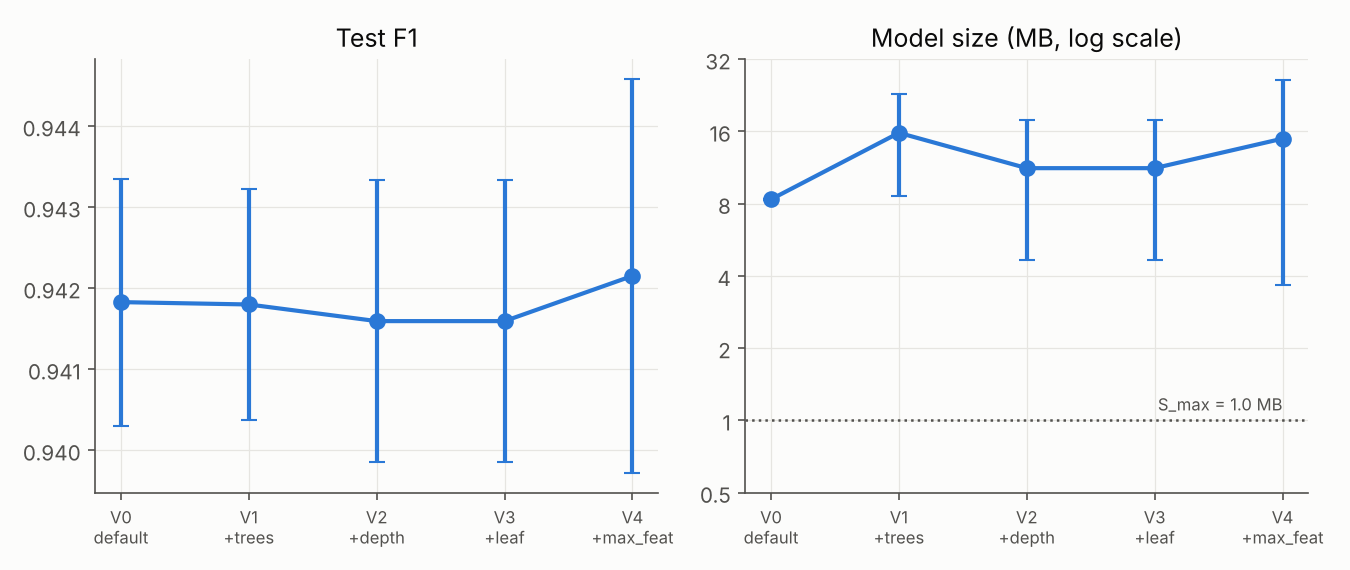
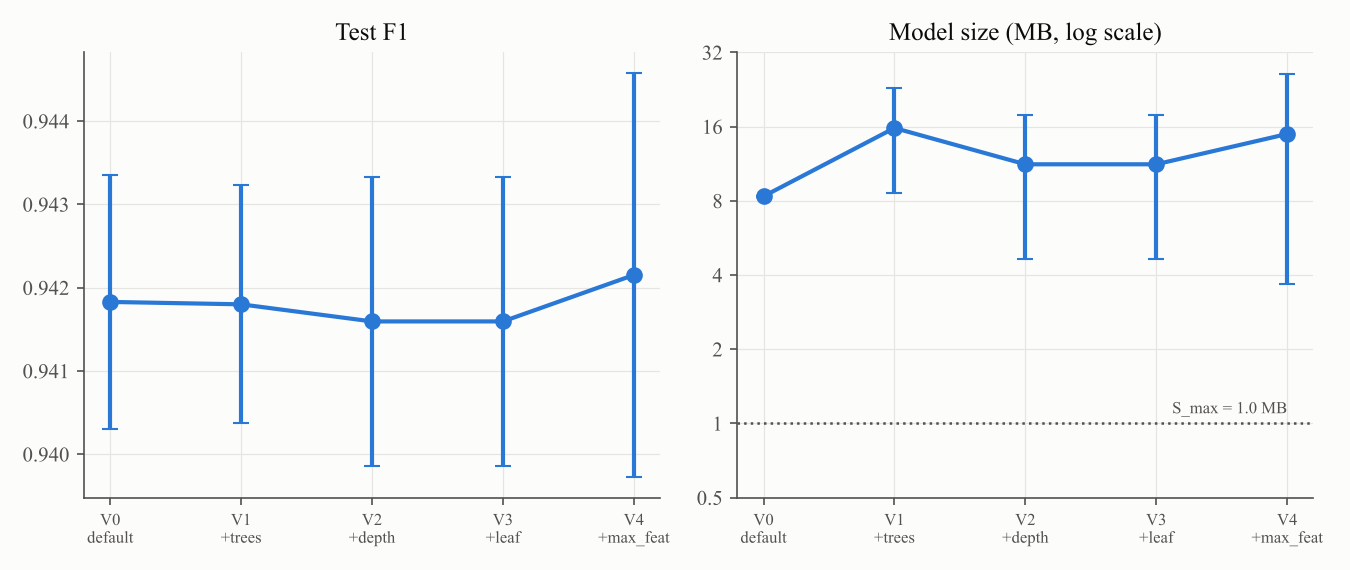
docs: cập nhật README, đề cương và hình cho quyết định tối ưu từng siêu tham số

diff --git a/src/overfitting_check.py b/src/overfitting_check.py
@@ -98,7 +98,10 @@ def learning_curves(Xtr, ytr, final):
     df = pd.DataFrame(rows)
     df.to_csv(RESULTS / "overfitting_learning_curve.csv", index=False)
     print(df.round(4).to_string(index=False))
+    plot_learning_curve(df)
 
+
+def plot_learning_curve(df):
     plt = plots.plt
     fig, axes = plt.subplots(1, 2, figsize=(8.5, 3.6), sharey=True)
     for ax, (name, color) in zip(axes, (("Default", plots.COLORS["Default"]), ("Chosen (OFAT V10)", plots.COLORS["TPE"]))):
@@ -136,6 +139,10 @@ def leakage(Xtr, Xte, ytr, yte):
 
 
 if __name__ == "__main__":
+    import sys
+    if sys.argv[1:2] == ["--replot"]:  # redraw the learning curve from the saved CSV only
+        plot_learning_curve(pd.read_csv(RESULTS / "overfitting_learning_curve.csv"))
+        sys.exit()
     optuna.logging.set_verbosity(optuna.logging.WARNING)
     warnings.filterwarnings("ignore", message=".*sklearn.utils.parallel.delayed.*")
     X, y, _ = load_data()

diff --git a/src/plots.py b/src/plots.py
@@ -20,6 +20,7 @@ plt.rcParams.update({
     "axes.labelcolor": INK, "xtick.color": MUTED, "ytick.color": MUTED, "text.color": INK,
     "axes.spines.top": False, "axes.spines.right": False, "axes.grid": True,
     "grid.color": "#e6e5e1", "grid.linewidth": 0.6, "font.size": 10, "lines.linewidth": 2,
+    "font.family": "serif", "font.serif": ["Times New Roman", "Liberation Serif", "DejaVu Serif"],  # match the report
 })
 
 

diff --git a/README.md b/README.md
@@ -1,95 +1,122 @@
-# Detection of a Fake Website — Constrained HPO for Random Forest
+# Detection of a Fake Website — Hyperparameter Optimisation for Random Forest
 
-Tối ưu siêu tham số Random Forest **có ràng buộc dung lượng mô hình** cho bài toán phát hiện website giả mạo (phishing).
-So sánh RF mặc định, Random Search và TPE (Bayesian optimization, Optuna) với cùng dữ liệu, cùng hàm mục tiêu, cùng budget, 10 seed.
+Tối ưu siêu tham số Random Forest cho bài toán phát hiện website giả mạo (phishing) bằng **tìm kiếm theo từng siêu tham số một** (coordinate search / one-factor-at-a-time), so sánh với RF mặc định, Random Search và TPE (Bayesian optimization, Optuna) trên cùng dữ liệu, cùng hàm mục tiêu, cùng ngân sách đánh giá, 10 seed.
 
 > Đồ án môn *Nhập môn Tối ưu hóa* — Trường ĐH Văn Lang. Không xây web/app: chỉ dữ liệu → huấn luyện → tối ưu → đánh giá.
 
 ## Problem
 
-Bộ lọc phishing chạy phía client (extension trình duyệt, thiết bị biên) phải **bắt đúng nhiều site giả** nhưng cũng phải **nhỏ và nhanh**.
-RF mặc định của scikit-learn đạt F1 ≈ 0.94 nhưng các cây mọc tới hết độ sâu → mô hình nặng **8.3 MB**.
-
-**Câu hỏi tối ưu:** tìm cấu hình RF có F1 cao nhất mà dung lượng ≤ 1 MB, và xem thuật toán search nào tìm ra nó hiệu quả hơn với cùng số lần đánh giá.
+Random Forest là mô hình mạnh cho dữ liệu bảng như đặc trưng URL/tên miền, nhưng chất lượng phụ thuộc vào nhiều siêu tham số mà thư viện để mặc định. **Câu hỏi tối ưu:** thay lần lượt từng siêu tham số so với cấu hình mặc định thì F1 phát hiện website giả tăng được bao nhiêu, mỗi siêu tham số đóng góp gì, và cái giá về dung lượng / thời gian dự đoán là bao nhiêu?
 
 ## Optimization Formulation — tối ưu nằm ở đâu?
 
-Huấn luyện RF bên trong (chọn ngưỡng chia theo Gini) là việc của thư viện. **Phần tối ưu của đồ án là tầng ngoài:** chọn x để tối đa J(x).
-
-**Biến quyết định** x ∈ Ω:
-
-| Biến | Miền | Ý nghĩa |
-|---|---|---|
-| `n_estimators` | int [10, 300], thang log | số cây → chất lượng ↑, dung lượng ↑ |
-| `max_depth` | int [2, 30] | độ sâu tối đa → dung lượng tăng theo hàm mũ |
-| `min_samples_leaf` | int [1, 20] | số mẫu tối thiểu/lá → cây gọn hơn, ít overfit |
-| `max_features` | float [0.05, 1.0] | tỉ lệ đặc trưng xét ở mỗi lần chia |
-
-**Hàm mục tiêu (maximize):**
+Huấn luyện RF bên trong (chọn ngưỡng chia theo Gini) là việc của thư viện — đó là **tham số** θ. Phần tối ưu của đồ án là **tầng ngoài**: chọn **siêu tham số** x.
 
 ```
-J(x) = F1_cv(x) − λ · max(0, size(x) − S_max) / S_max          λ = 1, S_max = 1.0 MB
+x* = argmax  F1_cv(x),   x ∈ Ω
 ```
 
-- `F1_cv(x)`: F1 trung bình 3-fold CV **trên tập train** (lớp dương = phishing).
-- `size(x)`: dung lượng pickle (MB) của mô hình fit trên toàn bộ tập train — chính là mô hình sẽ triển khai.
+- `F1_cv(x)`: F1 trung bình 3-fold kiểm định chéo **trên tập train** (lớp dương = phishing).
+- **Biến quyết định** x: 10 siêu tham số, miền Ω là lưới giá trị:
 
-**Ràng buộc:** `g(x) = size(x) − S_max ≤ 0`, xử lý bằng penalty tương đối (vi phạm 50% → trừ 0.5 điểm F1, nên mọi nghiệm vi phạm đều thua nghiệm khả thi).
+| # | Siêu tham số | Giá trị thử (Ω) | Mặc định |
+|---|---|---|---|
+| 1 | `n_estimators` | 10, 15, 21, 31, 45, 66, 97, 141, 206, 300 (thang log) | 100 |
+| 2 | `max_depth` | 2, 5, 8, 11, 14, 18, 21, 24, 27, 30 | không giới hạn |
+| 3 | `min_samples_leaf` | 1, 3, 5, 7, 9, 12, 14, 16, 18, 20 | 1 |
+| 4 | `max_features` | 0.05, 0.156, …, 1.0 (10 mức) | sqrt |
+| 5 | `criterion` | gini, entropy | gini |
+| 6 | `bootstrap` | True, False | True |
+| 7 | `min_samples_split` | 2, 4, 8, 16, 32 | 2 |
+| 8 | `max_leaf_nodes` | không giới hạn, 16, 32, 64, 128, 256 | không giới hạn |
+| 9 | `class_weight` | None, balanced, balanced_subsample | None |
+| 10 | `ccp_alpha` | 0, 1e-4, 3e-4, 1e-3, 3e-3, 1e-2 | 0 |
 
-**Vì sao phải dùng search có budget:** J(x) là hàm hộp đen — không có đạo hàm, mỗi lần tính tốn 4 lần fit RF, có nhiễu, không gian trộn biến nguyên/liên tục. Ràng buộc **active**: RF mặc định vi phạm gấp ~8 lần.
+- **Ràng buộc**: x nằm trong lưới Ω; **ngân sách đánh giá** hữu hạn (40 lần cho 4 siêu tham số chính — bằng ngân sách của Random/TPE; +24 lần cho 6 siêu tham số phụ). Mỗi lần đánh giá = 4 lần huấn luyện RF.
+- **Trade-off**: không giới hạn dung lượng (đã chấp nhận), nhưng dung lượng mô hình và thời gian dự đoán được đo và báo cáo ở mọi bước.
+- F1_cv là **hàm hộp đen**: không có đạo hàm, tốn kém, có nhiễu → giải bằng tìm kiếm có ngân sách.
+
+> Phiên bản trước của đồ án có thêm ràng buộc dung lượng ≤ 1 MB; kết quả đó được lưu trữ ở `results_trial/budget_1mb/` và không dùng cho quyết định cuối.
 
 ## Dataset
 
 [UCI Phishing Websites (id 327)](https://doi.org/10.24432/C51W2X), Mohammad, Thabtah & McCluskey (2012), CC BY 4.0. 30 đặc trưng đã mã hóa {-1, 0, 1} (URL, tên miền, SSL, HTML/JS...).
 
-- 11 055 dòng → **5 849 dòng sau khi bỏ trùng lặp**. 47% dataset là bản sao; giữ lại sẽ làm cùng một mẫu rơi vào cả train và test.
-- Train/test 80/20 phân tầng (`random_state=42`), chung cho mọi phương pháp. **Test chỉ dùng một lần, sau khi search xong.**
+- 11 055 dòng → **5 849 dòng sau khi bỏ trùng lặp** (47% là bản sao; giữ lại sẽ làm rò rỉ dữ liệu train → test).
+- Train/test 80/20 phân tầng (`random_state=42`), chung cho mọi phương pháp. **Test chỉ dùng một lần cho mỗi nghiệm cuối, không dùng để chọn cấu hình.**
 - Chi tiết: [`data/README.md`](data/README.md). Dữ liệu được tải tự động khi chạy.
 
 ## Method
 
 | Phương pháp | Vai trò | Mô tả |
 |---|---|---|
-| **Default** | baseline 1 | `RandomForestClassifier()` mặc định, không search |
-| **Random Search** | baseline 2 | `optuna.samplers.RandomSampler` — lấy mẫu đều trong Ω |
-| **TPE** | phương pháp chính | `optuna.samplers.TPESampler` — 10 trial ngẫu nhiên đầu, sau đó mô hình hóa p(x \| tốt) / p(x \| xấu) để đề xuất x tiếp theo |
-
-Protocol công bằng: cùng split, cùng CV folds (theo seed), cùng J(x), **cùng budget 40 lần đánh giá**, 10 seed (0–9). Với cùng seed, 10 trial đầu của TPE và Random giống hệt nhau, nên khác biệt sau trial 10 là do TPE.
+| **Default** | baseline | `RandomForestClassifier()` mặc định |
+| **Random Search** | baseline | lấy mẫu đều 4 siêu tham số chính, 40 lần đánh giá |
+| **TPE** | đối chứng | Bayesian optimization (Optuna), 4 siêu tham số chính, 40 lần đánh giá |
+| **Coordinate search (OFAT)** | **phương pháp chính / quyết định cuối** | xuất phát từ mặc định, thay **lần lượt từng siêu tham số một, mỗi tham số một lần**; ở mỗi bước thử mọi giá trị trong lưới, giữ các tham số khác cố định, chọn giá trị có F1_cv cao nhất (giữ nguyên nếu không có giá trị nào tốt hơn). V1–V4: 4 siêu tham số chính (40 lần); V5–V10: 6 siêu tham số phụ (24 lần) |
 
 ## Key Results
 
-10 seed × 40 trial / phương pháp, mean ± std. Số liệu sinh từ [`results/summary.csv`](results/summary.csv) và [`results/stats.json`](results/stats.json).
+10 seed, mean ± std. Số liệu sinh từ [`results/method_comparison.json`](results/method_comparison.json), [`results/step_summary.csv`](results/step_summary.csv).
 
-| Phương pháp | J (CV) | Test F1 | Test Recall | Size (MB) | Latency (ms/1000 mẫu) | Thời gian search (s) | Khả thi |
+**So sánh phương pháp (cùng hàm mục tiêu, cùng 4 siêu tham số, cùng 40 lần đánh giá; V10 có thêm 6 siêu tham số phụ):**
+
+| Phương pháp | CV F1 | Test F1 | Precision | Recall | Size (MB) | Latency (ms/1000) | Search (s) |
 |---|---|---|---|---|---|---|---|
-| Default | −6.39 ± 0.05 | **0.9418 ± 0.0015** | 0.926 ± 0.003 | 8.34 ± 0.05 | 13.1 ± 0.6 | — | 0/10 |
-| Random Search | 0.9416 ± 0.0021 | 0.9381 ± 0.0035 | 0.924 ± 0.008 | 0.45 ± 0.13 | 1.9 ± 0.5 | 37.1 ± 3.2 | 10/10 |
-| **TPE** | **0.9444 ± 0.0020** | 0.9402 ± 0.0035 | **0.926 ± 0.007** | 0.73 ± 0.22 | 2.6 ± 0.5 | **19.0 ± 3.1** | 10/10 |
+| Default | 0.9459 ± 0.0018 | 0.9418 ± 0.0015 | 0.958 | 0.926 | 8.3 | 11.5 | — |
+| Random Search | 0.9456 ± 0.0022 | 0.9410 ± 0.0037 | 0.957 | 0.925 | 6.1 | 12.3 | 28 |
+| TPE | 0.9493 ± 0.0033 | 0.9429 ± 0.0031 | 0.962 | 0.925 | 8.3 | 13.7 | 39 |
+| OFAT V4 | 0.9498 ± 0.0018 | 0.9422 ± 0.0024 | 0.957 | 0.928 | 14.9 | 19.9 | 53 |
+| **OFAT V10** | **0.9509 ± 0.0020** | **0.9427 ± 0.0024** | 0.960 | 0.926 | 15.9 | 20.7 | 86 |
 
-![Convergence](figures/convergence.png)
+- Cùng 40 lần đánh giá, **OFAT V4 ngang TPE** (CV F1 p = 0.77) và **vượt Random Search** (CV F1 cao hơn ở 10/10 seed, p = 0.002). OFAT vượt CV F1 của RF mặc định sau trung bình **9.5** lần đánh giá (10/10 seed), TPE cần 17.3 (9/10), Random 27.6 (5/10).
+- **Trung thực về test:** tối ưu làm CV F1 tăng có ý nghĩa thống kê (V10 so với mặc định: p = 0.002), nhưng **Test F1 chỉ tăng +0.0009, không có ý nghĩa thống kê** (p = 0.51). Trên bộ dữ liệu này RF mặc định đã gần tối ưu; phần lớn cải thiện CV là lạc quan do chọn trên ước lượng có nhiễu.
 
-![Trade-off](figures/tradeoff_pareto.png)
+**Mỗi siêu tham số đã tối ưu được gì (V0 → V10, thay đổi so với bước trước, trung bình theo seed):**
 
-![Test boxplot](figures/test_boxplot.png)
+| Bước | Siêu tham số thay | Giá trị được chọn (số seed) | Số seed đổi | ΔCV F1 | ΔTest F1 | Size (MB) |
+|---|---|---|---|---|---|---|
+| V0 | — (mặc định) | 100 cây, không giới hạn độ sâu | — | 0.9459 | 0.9418 | 8.3 |
+| V1 | `n_estimators` | 141 (3), 300 (3), 206 (2), 100, 66 | 9/10 | +0.0014 | 0.0000 | 15.8 |
+| V2 | `max_depth` | 14 (4), 11 (3), không giới hạn (2), 21 | 8/10 | +0.0010 | −0.0002 | 11.2 |
+| V3 | `min_samples_leaf` | 1 (10) | 0/10 | 0 | 0 | 11.2 |
+| V4 | `max_features` | 0.05 (5), sqrt (3), 0.156 (2) | 7/10 | +0.0015 | +0.0006 | 14.9 |
+| V5 | `criterion` | gini (8), entropy (2) | 2/10 | +0.0002 | −0.0005 | 14.9 |
+| V6 | `bootstrap` | False (6), True (4) | 6/10 | +0.0006 | +0.0014 | 18.5 |
+| V7 | `min_samples_split` | 2 (8), 4, 8 | 2/10 | +0.0002 | 0.0000 | 15.9 |
+| V8 | `max_leaf_nodes` | không giới hạn (10) | 0/10 | 0 | 0 | 15.9 |
+| V9 | `class_weight` | None (9), balanced (1) | 1/10 | +0.0000 | −0.0005 | 16.1 |
+| V10 | `ccp_alpha` | 0 (9), 1e-4 (1) | 1/10 | +0.0000 | +0.0001 | 15.9 |
 
-**Đọc kết quả:**
+- **Có tác dụng rõ:** `n_estimators` (nhiều cây → giảm phương sai), `max_depth` (giới hạn độ sâu → mô hình nhỏ lại ~29% mà CV F1 vẫn tăng), `max_features` (xét ít đặc trưng mỗi lần chia → các cây đa dạng hơn), `bootstrap = False` (mỗi cây thấy toàn bộ dữ liệu; mức tăng Test F1 lớn nhất, +0.0014).
+- **Không cần tối ưu:** `min_samples_leaf`, `max_leaf_nodes` (mặc định đã tốt nhất ở mọi seed); `criterion`, `class_weight`, `ccp_alpha` gần như không đổi (dữ liệu cân bằng 51.6%, không có ràng buộc dung lượng nên không cần cắt tỉa).
 
-1. **Ràng buộc đáng giá:** TPE giữ F1 test gần như bằng RF mặc định (0.9402 so với 0.9418, chênh 0.0016 ≈ 1 std) và recall bằng nhau, nhưng mô hình **nhỏ hơn ~11 lần** và dự đoán **nhanh hơn ~5 lần**.
-2. **TPE tốt hơn Random Search trên mục tiêu tối ưu:** J cao hơn ở 8/10 seed so theo cặp (Wilcoxon p = 0.008). TPE đạt J ≥ 0.94 sau trung bình **10.3** lần đánh giá (10/10 seed); Random cần 17.5 (chỉ 8/10 seed đạt trong 40 lần).
-3. **TPE chạy nhanh gấp đôi** với cùng 40 lần đánh giá, vì nó học được vùng mô hình nhỏ (79% trial khả thi so với 62%), mà mô hình nhỏ thì fit nhanh.
-4. **Trung thực về test:** khác biệt Test F1 giữa TPE và Random **không có ý nghĩa thống kê** (TPE thắng 6/10 seed, p = 0.16). Lợi thế chắc chắn của TPE là hiệu quả search, không phải độ chính xác trên test.
+![OFAT steps](figures/ofat_steps.png)
+
+![Convergence](figures/ofat_convergence.png)
 
 ## Decision
 
-Chọn **TPE** làm phương pháp tối ưu, và cấu hình có J (CV) cao nhất trên 10 seed (chọn theo CV, không nhìn test):
+Quyết định cuối: **coordinate search V10**, cấu hình của lần chạy có CV F1 cao nhất trong 10 seed (chọn theo CV, không nhìn test) — [`results/decision.json`](results/decision.json):
 
 ```
-n_estimators = 14, max_depth = 12, min_samples_leaf = 1, max_features ≈ 0.87
-→ 0.43 MB, 1.7 ms / 1000 mẫu, Test F1 = 0.9400, Precision = 0.960, Recall = 0.921
+n_estimators = 300, max_depth = 14, min_samples_leaf = 1, max_features = 0.05,
+criterion = gini, bootstrap = False, min_samples_split = 2, max_leaf_nodes = None,
+class_weight = balanced, ccp_alpha = 0
+→ CV F1 0.9533 | Test F1 0.9444, Precision 0.962, Recall 0.927 | 34.2 MB, 37 ms / 1000 mẫu
 ```
 
-Phù hợp khi cần mô hình ≤ 1 MB chạy phía client. Nếu không có giới hạn dung lượng, RF mặc định vẫn là lựa chọn hợp lý: F1 cao hơn ~0.002, đổi lại nặng hơn 8 MB.
-Lưu ý: chọn "tốt nhất trong 10 seed" theo CV cho kết quả lạc quan (CV F1 0.9475 → test 0.9400), nên con số đáng tin hơn là trung bình 10 seed ở bảng trên.
+- Chấp nhận mô hình lớn (34 MB, gấp ~4 lần mặc định) và chậm hơn (~3 lần) để lấy F1 cao nhất trên CV.
+- Con số đáng tin để kỳ vọng trên dữ liệu mới là **trung bình 10 seed: Test F1 0.9427 ± 0.0024**; Test F1 0.9444 của cấu hình được chọn có phần may mắn (chọn cấu hình tốt nhất trong 10 lần chạy theo CV).
+
+## Overfitting check
+
+`src/overfitting_check.py` (số liệu trong `results/overfitting_*`):
+
+- Train F1 cao hơn CV F1 ~0.026 (bình thường với RF); **CV − Test của OFAT V10 = 0.0082**, lớn hơn Default (0.0041) và TPE (0.0064) → càng tối ưu nhiều siêu tham số trên CV, ước lượng CV càng lạc quan.
+- Lặp lại toàn bộ quy trình V0 → V10 trên 5 cách chia train/test mới: CV − Test = 0.0004 ± 0.0090 (mặc định: −0.0031 ± 0.0063). Trên cả cách chia chính lẫn cách chia mới, khoảng cách của V10 lớn hơn mặc định ~0.004 → **mức lạc quan của CV do tối ưu ≈ 0.004**. Test F1 trên các cách chia mới: 0.9498 so với 0.9477 của mặc định (V10 tốt hơn ở 3/5 cách chia).
+- Learning curve: mô hình được chọn học thuộc ít hơn mặc định (train F1 0.978 so với 0.994) và đường validation vẫn đang đi lên → thêm dữ liệu sẽ còn cải thiện.
+- Không có rò rỉ: 24 dòng test (2.1%) trùng vector đặc trưng với train nhưng **đều mang nhãn ngược** (nhiễu nhãn của dataset).
 
 ## How to Run
 
@@ -99,52 +126,72 @@ Python 3.10+ (đã chạy trên 3.13, 4 CPU).
 pip install -r requirements.txt
 ```
 
-Thí nghiệm đầy đủ (~10 phút, ghi vào `results/`):
+So sánh Default / Random / TPE (~15 phút, ghi `results/`), rồi vẽ hình + kiểm định:
 
 ```bash
 python src/experiment.py --seeds 10 --trials 40
 ```
 
-Vẽ hình + kiểm định thống kê từ CSV (ghi vào `figures/`, `results/stats.json`):
-
 ```bash
 python src/plots.py
 ```
 
-Demo nhanh (~1 phút, không ghi đè kết quả chính):
+Tối ưu từng siêu tham số V0–V4 rồi V5–V10 (~15 phút), tổng hợp từng bước và quyết định cuối:
 
 ```bash
-python src/experiment.py --seeds 2 --trials 12 --out results_demo && python src/plots.py results_demo
+python src/ofat_search.py
 ```
 
-Kiểm tra:
+```bash
+python src/ofat_extra.py
+```
+
+```bash
+python src/step_summary.py
+```
+
+Kiểm tra overfitting (~10 phút) và test:
+
+```bash
+python src/overfitting_check.py
+```
 
 ```bash
 python -m pytest -q tests
 ```
 
-Đổi ngân sách dung lượng / budget: sửa `S_MAX`, `LAMBDA`, `SPACE` ở đầu `src/experiment.py`.
+Thử nhanh một cấu hình thủ công so với quyết định cuối (ghi `results_trial/`, không ảnh hưởng kết quả chính):
+
+```bash
+python src/try_config.py --n-estimators 50 --max-depth 15
+```
 
 ## Repository Structure
 
 ```
-├─ src/experiment.py     # dữ liệu, J(x), Default / Random / TPE, đánh giá test, logging
-├─ src/plots.py          # hình + Wilcoxon từ results/*.csv
-├─ tests/                # kiểm tra penalty và Pareto front
-├─ results/              # trials.csv (mọi trial), final.csv (mỗi seed), summary.csv, stats.json, config.json
-├─ figures/              # convergence, trade-off/Pareto, boxplot
-├─ data/README.md        # nguồn, giấy phép, tiền xử lý
-└─ docs/de-cuong.md      # phiếu đăng ký đề + kế hoạch 5 tuần
+├─ src/experiment.py      # dữ liệu, hàm mục tiêu, Default / Random / TPE, đánh giá test
+├─ src/ofat_search.py     # tối ưu từng siêu tham số: V0–V4 (4 siêu tham số chính)
+├─ src/ofat_extra.py      # tiếp tục V5–V10 (6 siêu tham số phụ)
+├─ src/step_summary.py    # mỗi bước tối ưu được gì, quyết định cuối, so sánh phương pháp
+├─ src/plots.py           # hình hội tụ, trade-off, boxplot, Wilcoxon
+├─ src/overfitting_check.py  # train/CV/test, cách chia mới, learning curve, rò rỉ dữ liệu
+├─ src/try_config.py      # thử cấu hình thủ công (sandbox)
+├─ tests/                 # kiểm tra hàm mục tiêu, Pareto, coordinate search, chuẩn hóa tham số
+├─ results/               # trials.csv, final.csv, summary.csv, stats.json, config.json,
+│                         # ofat/, ofat_extra/, step_summary.csv, decision.json, method_comparison.json, overfitting_*
+├─ figures/               # ofat_steps, ofat_convergence, ofat_versions, ofat_extra_versions, convergence, tradeoff, boxplot, learning_curve
+├─ results_trial/         # lưu trữ phiên bản cũ có ngân sách 1 MB (không dùng cho quyết định cuối)
+├─ data/README.md         # nguồn, giấy phép, tiền xử lý
+└─ docs/de-cuong.md       # phiếu đăng ký đề + kế hoạch 5 tuần
 ```
 
 ## Limitations
 
-- Một dataset; đặc trưng đã được mã hóa sẵn — chưa kiểm tra trên URL phishing mới (concept drift).
-- Dung lượng đo bằng kích thước pickle; latency đo trên một máy (single-thread, batch) nên phụ thuộc phần cứng.
-- Penalty với λ = 1 là một cách vô hướng hóa; chưa thử ràng buộc cứng (constrained TPE) hay tối ưu đa mục tiêu đầy đủ (NSGA-II).
-- Chưa làm sensitivity theo S_max (0.25 / 0.5 / 2 MB) — dự kiến tuần 4.
-- 40 trial/lần chạy; với budget lớn hơn khoảng cách TPE–Random có thể thu hẹp.
+- **Test F1 không tăng có ý nghĩa thống kê** so với RF mặc định (+0.0009, p = 0.51); cải thiện chủ yếu nằm trên CV.
+- Mô hình cuối lớn (34 MB) và chậm hơn mặc định ~3 lần — không phù hợp nếu triển khai trên thiết bị hạn chế.
+- Coordinate search phụ thuộc thứ tự siêu tham số và chỉ đi một lượt; không bắt được tương tác giữa các siêu tham số; lưới giá trị thô (2–10 mức).
+- Một bộ dữ liệu với đặc trưng mã hóa sẵn từ 2012; latency đo trên một máy.
 
 ## AI assistance
 
-Code khung, README và hình được soạn với sự hỗ trợ của Claude Code. Sinh viên tự chạy lại toàn bộ thí nghiệm, kiểm tra số liệu với `results/` và chịu trách nhiệm giải thích mọi phần.
+Code khung, README và bản nháp báo cáo được soạn với sự hỗ trợ của Claude Code. Sinh viên tự chạy lại toàn bộ thí nghiệm, kiểm tra số liệu với `results/` và chịu trách nhiệm giải thích mọi phần.

diff --git a/docs/de-cuong.md b/docs/de-cuong.md
@@ -2,29 +2,29 @@
 
 | Mục | Nội dung |
 |---|---|
-| Tên đề tài | Tối ưu siêu tham số Random Forest có ràng buộc kích thước mô hình cho bài toán phát hiện website giả mạo (phishing) |
-| Bối cảnh / vấn đề | Bộ lọc phishing chạy phía client (extension trình duyệt, thiết bị biên) cần vừa **bắt đúng nhiều site giả** vừa **nhỏ, nhanh**. RF mặc định của scikit-learn cho chất lượng tốt nhưng các cây mọc tới hết độ sâu → mô hình nặng. Câu hỏi: có cấu hình RF nào giữ (hoặc tăng) F1 mà nằm trong ngân sách dung lượng không, và thuật toán search nào tìm ra nó hiệu quả nhất với cùng số lần đánh giá? |
+| Tên đề tài | Tối ưu siêu tham số Random Forest theo từng siêu tham số (coordinate search) cho bài toán phát hiện website giả mạo (phishing) |
+| Bối cảnh / vấn đề | Random Forest phát hiện phishing tốt trên đặc trưng URL/tên miền, nhưng chất lượng phụ thuộc nhiều siêu tham số đang để mặc định. Câu hỏi: thay lần lượt từng siêu tham số thì F1 tăng bao nhiêu, mỗi siêu tham số đóng góp gì, và cái giá về dung lượng / thời gian dự đoán là bao nhiêu? |
 | Dataset / nguồn | UCI Phishing Websites (id 327), benchmark công bố, CC BY 4.0, public được trên GitHub. Xem `data/README.md`. |
-| Decision variables x | `n_estimators` ∈ [10, 300] (int, log), `max_depth` ∈ [2, 30] (int), `min_samples_leaf` ∈ [1, 20] (int), `max_features` ∈ [0.05, 1.0] (tỉ lệ đặc trưng) |
+| Decision variables x | 10 siêu tham số RF trên lưới giá trị: `n_estimators`, `max_depth`, `min_samples_leaf`, `max_features` (chính); `criterion`, `bootstrap`, `min_samples_split`, `max_leaf_nodes`, `class_weight`, `ccp_alpha` (phụ) |
 | Objective f(x) | max F1 trung bình 3-fold CV trên tập train (lớp dương = phishing) |
-| Constraints / trade-off | `size_MB(x) ≤ S_max = 1.0 MB` (dung lượng pickle của mô hình), xử lý bằng penalty: `J(x) = F1_cv(x) − λ·max(0, size(x) − S_max)/S_max`, λ = 1. Trade-off F1 ↔ size được thể hiện bằng Pareto front. |
-| Baseline | (1) RF mặc định của scikit-learn (không search); (2) Random Search cùng budget |
-| Phương pháp tối ưu chính | TPE — Bayesian optimization (Optuna `TPESampler`) |
-| Metric | Search: J(x), F1_cv. Báo cáo cuối: F1/accuracy/recall trên test, size MB, latency ms/1000 mẫu, thời gian search, tỉ lệ khả thi |
-| Budget / điều kiện dừng | 40 lần đánh giá J(x) / mỗi lần chạy (mỗi lần = 3 lần fit RF); 10 seed cho mỗi phương pháp |
-| Sản phẩm tuần 5 | Repo public + README + `results/*.csv` + 3 hình + báo cáo 8–12 trang + slide 5–8 trang + tag v1.0 |
+| Constraints / trade-off | x thuộc lưới Ω; ngân sách đánh giá hữu hạn (40 lần cho 4 siêu tham số chính, +24 lần cho 6 siêu tham số phụ). Không giới hạn dung lượng (chấp nhận), nhưng dung lượng và latency được đo, báo cáo như trade-off. |
+| Baseline | (1) RF mặc định của scikit-learn; (2) Random Search; (3) TPE — cùng 4 siêu tham số chính, cùng 40 lần đánh giá |
+| Phương pháp tối ưu chính | Coordinate search (one-factor-at-a-time): thay lần lượt từng siêu tham số, mỗi tham số một lần |
+| Metric | Search: F1_cv. Báo cáo cuối: F1/precision/recall trên test, dung lượng MB, latency ms/1000 mẫu, thời gian search; Wilcoxon theo cặp seed |
+| Budget / điều kiện dừng | Mỗi bước thử hết lưới của một siêu tham số rồi dừng; 1 lượt qua 10 siêu tham số (65 lần đánh giá kể cả điểm xuất phát; mỗi lần = 4 lần fit RF); 10 seed |
+| Sản phẩm tuần 5 | Repo public + README + `results/*` + hình + báo cáo 8–12 trang + slide 5–8 trang + tag v1.0 |
 
 ## Tối ưu nằm ở đâu? (trả lời câu hỏi "tối ưu chỗ nào")
 
 Huấn luyện RF tự nó đã là một bài toán tối ưu (mỗi cây chọn ngưỡng chia tốt nhất theo Gini) — nhưng đó **không** phải phần đóng góp của đồ án. Phần tối ưu của đồ án là **tầng ngoài**:
 
 ```
-x* = argmax_{x ∈ Ω}  J(x) = F1_cv(x) − λ · max(0, size(x) − S_max) / S_max
+x* = argmax_{x ∈ Ω}  F1_cv(x)
 ```
 
-- J(x) là **hàm hộp đen**: không có đạo hàm, mỗi lần tính tốn 3 lần fit RF, có nhiễu (do bootstrap ngẫu nhiên) → không dùng được gradient descent → dùng **search có budget** (Random, TPE).
-- Không gian Ω trộn biến nguyên và liên tục.
-- Ràng buộc size **active**: RF mặc định vi phạm ngân sách (xem kết quả), nên bài toán không tầm thường — "cây càng nhiều càng sâu càng tốt" không còn đúng.
+- F1_cv(x) là **hàm hộp đen**: không có đạo hàm, mỗi lần tính tốn 4 lần fit RF, có nhiễu (do bootstrap ngẫu nhiên) → không dùng được gradient descent → dùng **tìm kiếm có ngân sách**.
+- Ω trộn biến nguyên, liên tục và phân loại (criterion, bootstrap, class_weight).
+- Coordinate search chia bài toán 10 chiều thành 10 bài toán 1 chiều giải tuần tự — dễ giải thích từng siêu tham số đóng góp gì, nhưng phụ thuộc thứ tự và bỏ qua tương tác.
 
 ## Kế hoạch 5 tuần
 
@@ -32,6 +32,6 @@ x* = argmax_{x ∈ Ω}  J(x) = F1_cv(x) − λ · max(0, size(x) − S_max) / S_
 |---|---|---|
 | 1 | Chọn dataset, viết formulation (file này), dựng repo | `docs: formulation` |
 | 2 | Loader + dedup + split; baseline RF mặc định | `feat: data + baseline` |
-| 3 | Random Search + TPE với objective có penalty; logging trial | `feat: search + logging` |
-| 4 | Chạy 10 seed, sinh bảng + hình, sensitivity (đổi S_max) | `results: main experiment` |
+| 3 | Random Search + TPE; coordinate search V0–V4; logging trial | `feat: search + logging` |
+| 4 | Coordinate search V5–V10, 10 seed, bảng + hình, kiểm tra overfitting | `results: main experiment` |
 | 5 | Báo cáo, slide, README Key Results, tag `v1.0` | `docs: report`, tag `v1.0` |

diff --git a/results_trial/budget_1mb/README.md b/results_trial/budget_1mb/README.md
@@ -7,6 +7,5 @@ Quyết định cuối của đồ án đã đổi sang tối ưu từng siêu t
 - `results/`, `figures/`: Default / Random / TPE với S_max = 1 MB, độ nhạy S_max, ablation, độ bền, scalability, kiểm tra overfitting.
 - `ofat/`, `ofat_extra/`: tối ưu từng siêu tham số một **có** ngân sách 1 MB (bản thử nghiệm).
 - `try_config/`: thử cấu hình thủ công 50 cây / sâu 15 so với cấu hình TPE cũ.
-- `report/`: báo cáo cũ.
 - `src/extra_experiments.py`: script của các thí nghiệm mở rộng cũ (để chạy lại phải chép về `src/` và đọc kết quả từ thư mục này).
 - Chạy lại thí nghiệm chính cũ: `python src/experiment.py --lam 1 --out results_trial/budget_1mb/results`.
